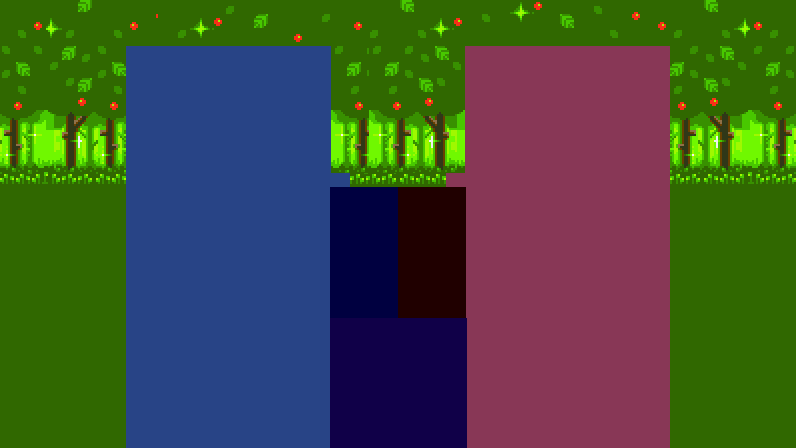
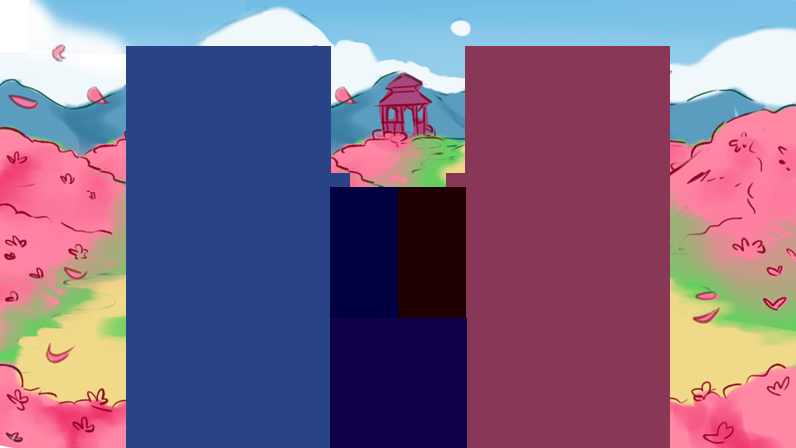
#300 add character bg and background

diff --git a/src/renderer/components/playfield.ts b/src/renderer/components/playfield.ts
@@ -49,6 +49,7 @@ export default class Playfield {
   private score_lbl       : ComponentScore
   private ai              : ComponentAi
   public  character       : ComponentCharacter
+  private bg : Phaser.Sprite
 
   public  should_push      : boolean
   private height : number
@@ -89,6 +90,7 @@ export default class Playfield {
     this.score_lbl       = new ComponentScore()
     this.ai              = new ComponentAi()
     this.character       = new ComponentCharacter()
+
   }
 
   get stack(){
@@ -149,6 +151,8 @@ export default class Playfield {
 
     this.x = opts.x
     this.y = opts.y
+
+    this.bg = game.add.sprite(this.x,this.y,`char_0${this.pi}`)
 
     this.layer_block  = game.add.group()
     this.layer_block.x  = this.x
@@ -507,7 +511,7 @@ export default class Playfield {
           this.garbage.update(cnc[0],cnc[1])
           this.garbage_preview.update()
         }
-        
+
         if (this.garbage_landing === true){
           game.sounds.land()
           this.garbage_landing = false
